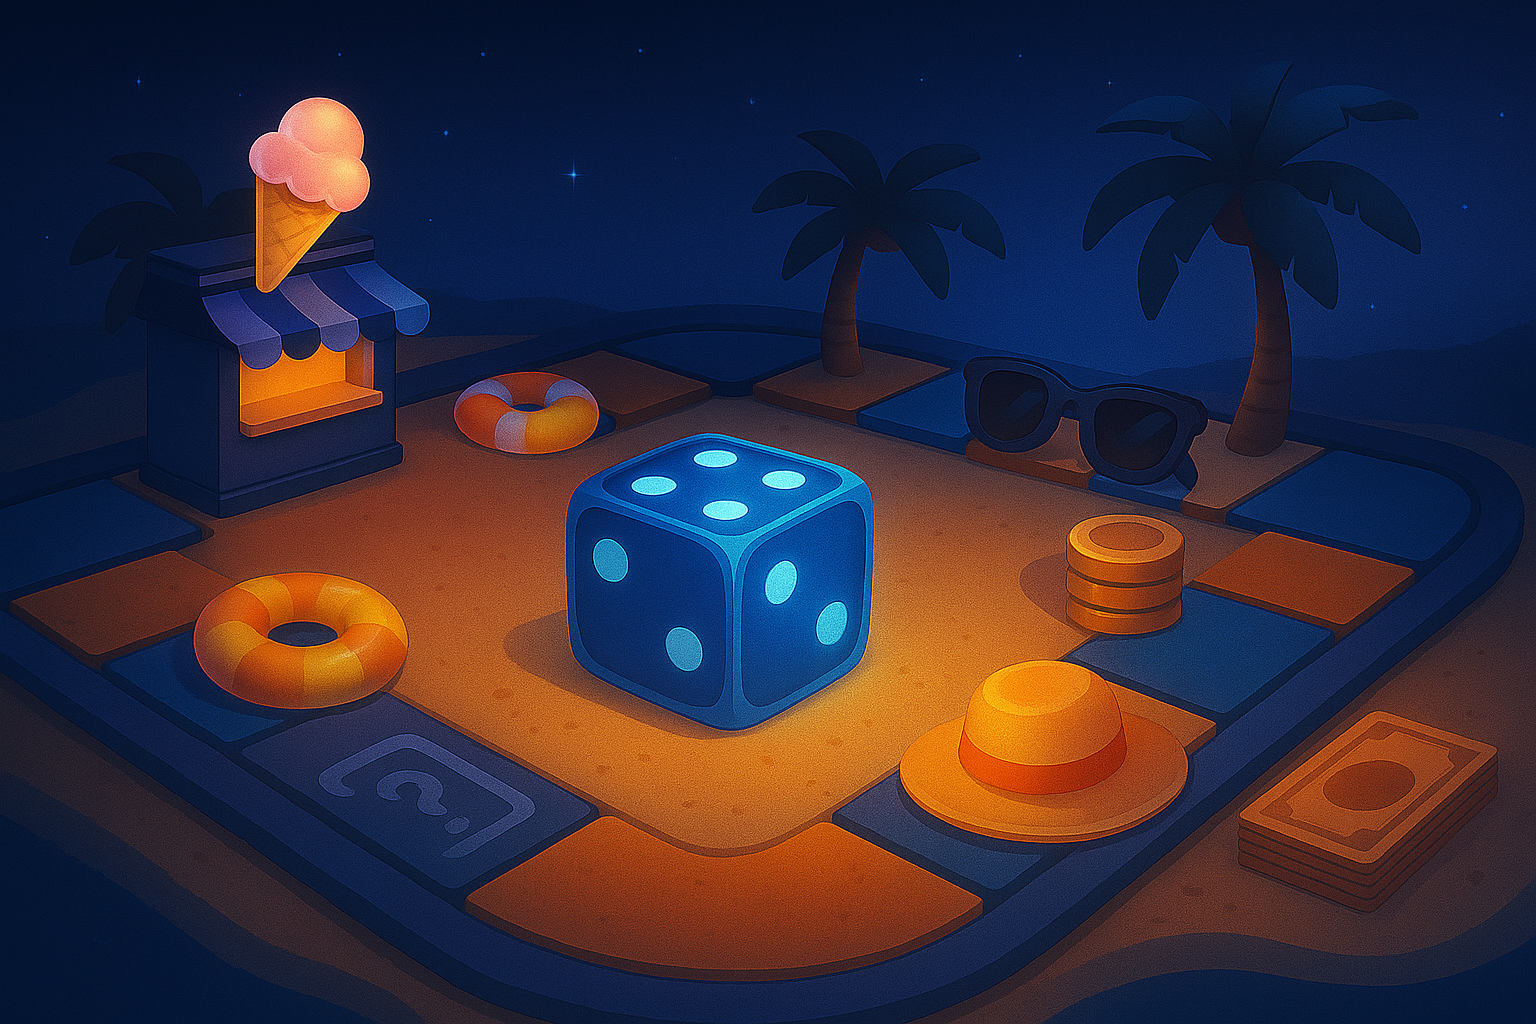
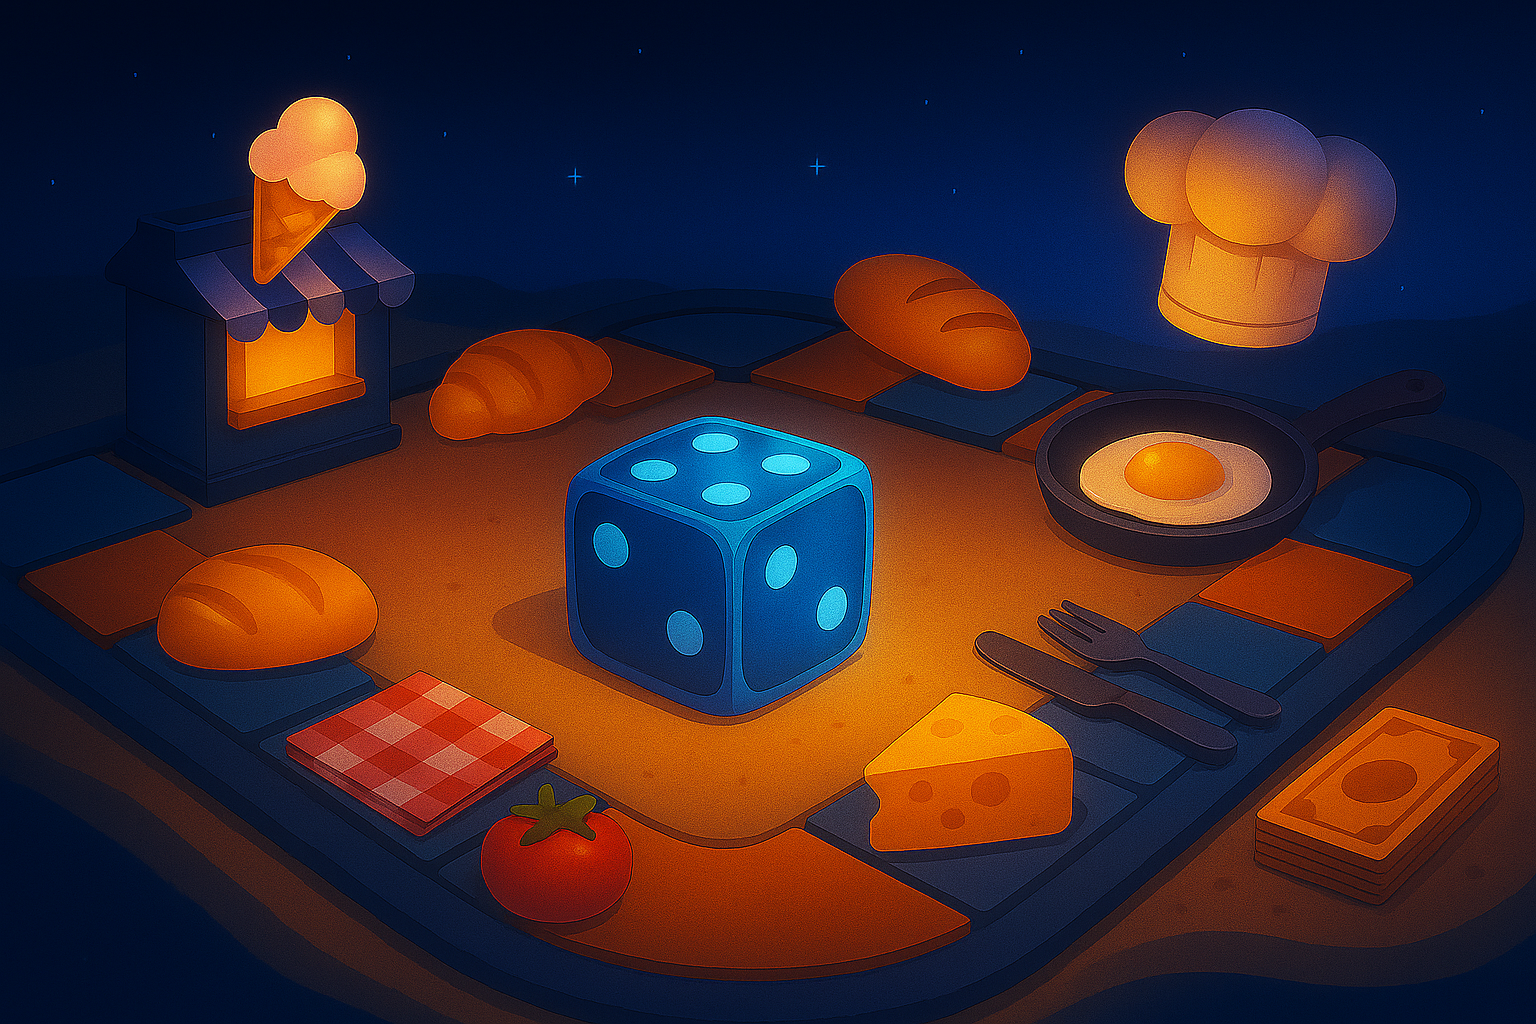
Add album initialization feature in admin panel
Introduces a new admin route and UI for initializing albums with a configurable number of sets and cards. Updates include a new controller action, modal form in the admin template, and supporting JavaScript for handling the initialization process. Also updates background images and adds a new image for 2025 vacations.

diff --git a/src/Controller/AdminController.php b/src/Controller/AdminController.php
@@ -121,6 +121,41 @@ final class AdminController extends AbstractController
         return $this->redirectToRoute('app_admin');
     }
 
+    #[Route('/admin/album/init', name: 'admin_album_init', methods: ['POST'])]
+    public function initAlbum(Request $request, EntityManagerInterface $em): JsonResponse
+    {
+        $albumId = $request->request->get('albumId');
+        $nbSets = (int) $request->request->get('nbSets');
+
+        $album = $em->getRepository(Album::class)->find($albumId);
+        if (!$album) {
+            return new JsonResponse(['success' => false, 'message' => 'Album introuvable']);
+        }
+
+        for ($i = 1; $i <= $nbSets; $i++) {
+            $set = new Set();
+            $set->setAlbum($album);
+            $set->setName("Set $i");
+            $set->setPage($i);
+            $em->persist($set);
+
+            for ($j = 1; $j <= 9; $j++) {
+                $carte = new Carte();
+                $carte->setS($set);
+                $carte->setNum($j);
+                $carte->setNbetoile(1);
+                $carte->setGolden(false);
+                $carte->setName('.');
+                $carte->setTransferable(true);
+                $em->persist($carte);
+            }
+        }
+
+        $em->flush();
+
+        return new JsonResponse(['success' => true]);
+    }
+
     #[Route('/admin/carte/{id}/toggletransfert', name: 'app_admin_carte_toggle_transfert', methods: ['GET'])]
     public function carteToggleTransfert(Carte $c, EntityManagerInterface $em): Response
     {
